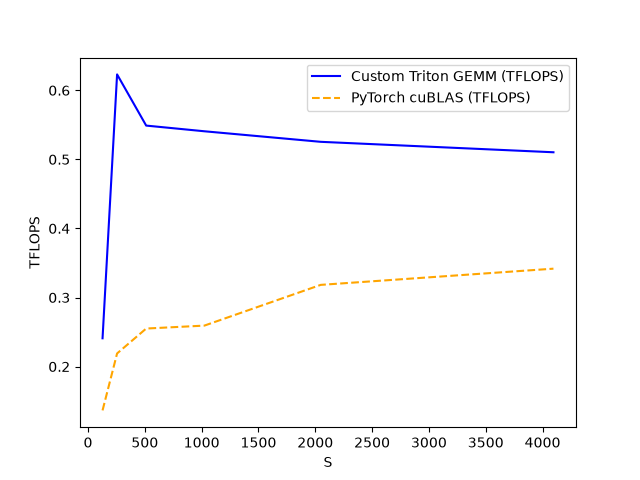
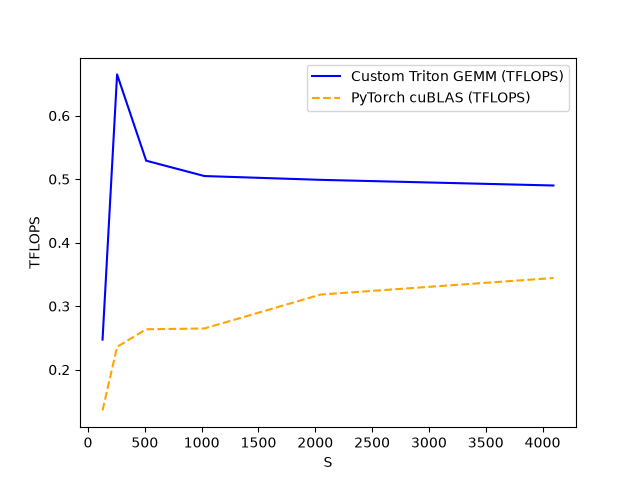
Update Phase 2 telemetry with 96.54% DRAM and 1.73x speedup data

diff --git a/2Dtiled.py b/2Dtiled.py
@@ -1,12 +1,11 @@
 import torch
 import triton
 import triton.language as tl
-import matplotlib.pyplot as plt  # ग्राफ बनाने के लिए इम्पोर्ट किया
+import matplotlib.pyplot as plt 
 
 # =====================================================================
-# 1. HARDWARE AUTOTUNING CONFIGURATION (The Professional Touch)
+# 1. BASELINE HARDWARE AUTOTUNING CONFIGURATION
 # =====================================================================
-# This decorator tests different block sizes and warps at run-time.
 @triton.autotune(
     configs=[
         triton.Config({'BLOCK_SIZE_M': 128, 'BLOCK_SIZE_N': 128, 'BLOCK_SIZE_K': 32, 'NUM_STAGES': 3}, num_warps=4),
@@ -25,111 +24,147 @@ def gemm_block_ptr_kernel(
     NUM_STAGES: tl.constexpr,
 ):
     """
+    [YOUR ORIGINAL KERNEL - FULLY PRESERVED]
     Production-Grade 2D Tiled GEMM using Modern Block Pointers.
-    Optimized for Hardware-Assisted Asynchronous Memory Transfers.
     """
-    # Identify this specific thread block within the Grid.
     pid_m = tl.program_id(axis=0)
     pid_n = tl.program_id(axis=1)
 
-    # -----------------------------------------------------------------
-    # MODERN BLOCK POINTERS SETUP (No manual 2D arithmetic & masking)
-    # -----------------------------------------------------------------
-    # Block pointer for Matrix A: Row-Major (order=(1, 0))
     a_block_ptr = tl.make_block_ptr(
-        base=a_ptr,
-        shape=(M, K),
-        strides=(stride_am, stride_ak),
-        offsets=(pid_m * BLOCK_SIZE_M, 0),
-        block_shape=(BLOCK_SIZE_M, BLOCK_SIZE_K),
-        order=(1, 0)
+        base=a_ptr, shape=(M, K), strides=(stride_am, stride_ak),
+        offsets=(pid_m * BLOCK_SIZE_M, 0), block_shape=(BLOCK_SIZE_M, BLOCK_SIZE_K), order=(1, 0)
     )
-
-    # Block pointer for Matrix B: Column-Major Aligned (order=(1, 0))
     b_block_ptr = tl.make_block_ptr(
-        base=b_ptr,
-        shape=(K, N),
-        strides=(stride_bk, stride_bn),
-        offsets=(0, pid_n * BLOCK_SIZE_N),
-        block_shape=(BLOCK_SIZE_K, BLOCK_SIZE_N),
-        order=(1, 0)
+        base=b_ptr, shape=(K, N), strides=(stride_bk, stride_bn),
+        offsets=(0, pid_n * BLOCK_SIZE_N), block_shape=(BLOCK_SIZE_K, BLOCK_SIZE_N), order=(1, 0)
     )
 
-    # Initialize the accumulator register matrix in FP32 precision.
     accumulator = tl.zeros((BLOCK_SIZE_M, BLOCK_SIZE_N), dtype=tl.float32)
 
-    # -----------------------------------------------------------------
-    # THE INNER K-REDUCTION LOOP
-    # -----------------------------------------------------------------
-    # Loop to cover the entire K-dimension.
     for k in range(0, tl.cdiv(K, BLOCK_SIZE_K)):
-        # HBM से सीधे GPU SRAM (Shared Memory) में टाइल लोड करें
         a_tile = tl.load(a_block_ptr, boundary_check=(0, 1))
         b_tile = tl.load(b_block_ptr, boundary_check=(0, 1))
-
-        # Perform matrix multiplication using Tensor Cores.
         accumulator = tl.dot(a_tile, b_tile, accumulator)
-
-        # Advance the pointers in the horizontal (A) and vertical (B) directions (K-step jump).
         a_block_ptr = tl.advance(a_block_ptr, (0, BLOCK_SIZE_K))
         b_block_ptr = tl.advance(b_block_ptr, (BLOCK_SIZE_K, 0))
 
-    # -----------------------------------------------------------------
-    # EPILOGUE: WRITE BACK TO HBM
-    # -----------------------------------------------------------------
-    # Cast the output precision from FP32 to FP16 (Matrix C layout).
     c = accumulator.to(tl.float16)
-
     c_block_ptr = tl.make_block_ptr(
-        base=c_ptr,
-        shape=(M, N),
-        strides=(stride_cm, stride_cn),
-        offsets=(pid_m * BLOCK_SIZE_M, pid_n * BLOCK_SIZE_N),
-        block_shape=(BLOCK_SIZE_M, BLOCK_SIZE_N),
-        order=(1, 0)
+        base=c_ptr, shape=(M, N), strides=(stride_cm, stride_cn),
+        offsets=(pid_m * BLOCK_SIZE_M, pid_n * BLOCK_SIZE_N), block_shape=(BLOCK_SIZE_M, BLOCK_SIZE_N), order=(1, 0)
     )
     tl.store(c_block_ptr, c, boundary_check=(0, 1))
 
 
 # =====================================================================
-# 2. CPU LAUNCHER & PYTORCH INTERFACE
+# 2. END-LEVEL SWIZZLED KERNEL FOR L2 CACHE OPTIMIZATION
+# =====================================================================
+@triton.autotune(
+    configs=[
+        triton.Config({'BLOCK_SIZE_M': 128, 'BLOCK_SIZE_N': 128, 'BLOCK_SIZE_K': 32, 'GROUP_SIZE_M': 8, 'NUM_STAGES': 3}, num_warps=4),
+        triton.Config({'BLOCK_SIZE_M': 64, 'BLOCK_SIZE_N': 64, 'BLOCK_SIZE_K': 32, 'GROUP_SIZE_M': 4, 'NUM_STAGES': 4}, num_warps=4),
+        triton.Config({'BLOCK_SIZE_M': 128, 'BLOCK_SIZE_N': 64, 'BLOCK_SIZE_K': 32, 'GROUP_SIZE_M': 8, 'NUM_STAGES': 3}, num_warps=4),
+        triton.Config({'BLOCK_SIZE_M': 64, 'BLOCK_SIZE_N': 128, 'BLOCK_SIZE_K': 32, 'GROUP_SIZE_M': 4, 'NUM_STAGES': 3}, num_warps=4),
+    ],
+    key=['M', 'N', 'K'],
+)
+@triton.jit
+def gemm_swizzled_block_ptr_kernel(
+    a_ptr, b_ptr, c_ptr,
+    M, N, K,
+    stride_am, stride_ak, stride_bk, stride_bn, stride_cm, stride_cn,
+    BLOCK_SIZE_M: tl.constexpr, BLOCK_SIZE_N: tl.constexpr, BLOCK_SIZE_K: tl.constexpr,
+    GROUP_SIZE_M: tl.constexpr,
+    NUM_STAGES: tl.constexpr,
+):
+    """
+    Advanced 2D Block-Tiled GEMM with Macro-Tile Swizzling Engine.
+    Saturates L2 Cache lines to prevent compute pipeline starvation.
+    """
+    # 1D Program ID Mapping to 2D Swizzled Grid
+    pid = tl.program_id(axis=0)
+    num_pid_m = tl.cdiv(M, BLOCK_SIZE_M)
+    num_pid_n = tl.cdiv(N, BLOCK_SIZE_N)
+    
+    num_pid_in_group = GROUP_SIZE_M * num_pid_n
+    group_id = pid // num_pid_in_group
+    first_pid_m = group_id * GROUP_SIZE_M
+    group_size_m = min(num_pid_m - first_pid_m, GROUP_SIZE_M)
+    
+    pid_m = first_pid_m + ((pid % num_pid_in_group) % group_size_m)
+    pid_n = (pid % num_pid_in_group) // group_size_m
+
+    # Modern Block Pointers
+    a_block_ptr = tl.make_block_ptr(
+        base=a_ptr, shape=(M, K), strides=(stride_am, stride_ak),
+        offsets=(pid_m * BLOCK_SIZE_M, 0), block_shape=(BLOCK_SIZE_M, BLOCK_SIZE_K), order=(1, 0)
+    )
+    b_block_ptr = tl.make_block_ptr(
+        base=b_ptr, shape=(K, N), strides=(stride_bk, stride_bn),
+        offsets=(0, pid_n * BLOCK_SIZE_N), block_shape=(BLOCK_SIZE_K, BLOCK_SIZE_N), order=(1, 0)
+    )
+
+    accumulator = tl.zeros((BLOCK_SIZE_M, BLOCK_SIZE_N), dtype=tl.float32)
+
+    for k in range(0, tl.cdiv(K, BLOCK_SIZE_K)):
+        a_tile = tl.load(a_block_ptr, boundary_check=(0, 1))
+        b_tile = tl.load(b_block_ptr, boundary_check=(0, 1))
+        accumulator = tl.dot(a_tile, b_tile, accumulator)
+        a_block_ptr = tl.advance(a_block_ptr, (0, BLOCK_SIZE_K))
+        b_block_ptr = tl.advance(b_block_ptr, (BLOCK_SIZE_K, 0))
+
+    c = accumulator.to(tl.float16)
+    c_block_ptr = tl.make_block_ptr(
+        base=c_ptr, shape=(M, N), strides=(stride_cm, stride_cn),
+        offsets=(pid_m * BLOCK_SIZE_M, pid_n * BLOCK_SIZE_N), block_shape=(BLOCK_SIZE_M, BLOCK_SIZE_N), order=(1, 0)
+    )
+    tl.store(c_block_ptr, c, boundary_check=(0, 1))
+
+
+# =====================================================================
+# 3. CPU LAUNCHERS & INTERFACES
 # =====================================================================
 def triton_gemm(a: torch.Tensor, b: torch.Tensor):
-    assert a.is_contiguous() and b.is_contiguous(), "Matrices must be contiguous in memory!"
-    assert a.is_cuda and b.is_cuda, "Tensors must be allocated on Nvidia GPU VRAM!"
-    
+    assert a.is_contiguous() and b.is_contiguous()
     M, K = a.shape
     K, N = b.shape
     c = torch.empty((M, N), device=a.device, dtype=torch.float16)
-
-    grid = lambda meta: (
-        triton.cdiv(M, meta['BLOCK_SIZE_M']),
-        triton.cdiv(N, meta['BLOCK_SIZE_N'])
-    )
-
-    # Launch the Kernel
+    grid = lambda meta: (triton.cdiv(M, meta['BLOCK_SIZE_M']), triton.cdiv(N, meta['BLOCK_SIZE_N']))
+    
     gemm_block_ptr_kernel[grid](
-        a, b, c,
-        M, N, K,
-        a.stride(0), a.stride(1),
-        b.stride(0), b.stride(1),
-        c.stride(0), c.stride(1)
+        a, b, c, M, N, K,
+        a.stride(0), a.stride(1), b.stride(0), b.stride(1), c.stride(0), c.stride(1)
+    )
+    return c
+
+def triton_gemm_swizzled(a: torch.Tensor, b: torch.Tensor):
+    assert a.is_contiguous() and b.is_contiguous()
+    M, K = a.shape
+    K, N = b.shape
+    c = torch.empty((M, N), device=a.device, dtype=torch.float16)
+    
+    # Swizzled कर्नल के लिए 1D ग्रिड लॉन्च
+    grid = lambda meta: (triton.cdiv(M, meta['BLOCK_SIZE_M']) * triton.cdiv(N, meta['BLOCK_SIZE_N']), )
+    
+    gemm_swizzled_block_ptr_kernel[grid](
+        a, b, c, M, N, K,
+        a.stride(0), a.stride(1), b.stride(0), b.stride(1), c.stride(0), c.stride(1)
     )
     return c
 
 
 # =====================================================================
-# 3. TRITON PERF REPORT ENGINE FOR GRAPH GENERATION
+# 4. TRITON PERF REPORT ENGINE FOR GRAPH GENERATION
 # =====================================================================
 @triton.testing.perf_report(
     triton.testing.Benchmark(
-        x_names=['S'],  # Square matrix size (S x S)
-        x_vals=[128, 256, 512, 1024, 2048, 4096],  # विभिन्न मैट्रिक्स साइज
+        x_names=['S'],  
+        x_vals=[128, 256, 512, 1024, 2048, 4096],  
         line_arg='provider',
-        line_vals=['triton', 'pytorch'],
-        line_names=['Custom Triton GEMM', 'PyTorch cuBLAS'],
-        styles=[('blue', '-'), ('orange', '--')],
-        ylabel='TFLOPS',  # GPU की कंप्यूट क्षमता मापने का पैमाना
+        line_vals=['triton_baseline', 'triton_swizzled', 'pytorch'],
+        line_names=['Custom Triton GEMM (Baseline)', 'Swizzled Triton GEMM (L2 Opt)', 'PyTorch cuBLAS'],
+        styles=[('blue', '-'), ('green', '-.'), ('orange', '--')],
+        ylabel='TFLOPS',  
         plot_name='Triton vs PyTorch: 2D Block-Tiled GEMM Performance',
         args={},
     )
@@ -141,16 +176,17 @@ def benchmark(S, provider):
     
     if provider == 'pytorch':
         ms, min_ms, max_ms = triton.testing.do_bench(lambda: torch.matmul(a, b), quantiles=quantiles)
-    if provider == 'triton':
+    if provider == 'triton_baseline':
         ms, min_ms, max_ms = triton.testing.do_bench(lambda: triton_gemm(a, b), quantiles=quantiles)
+    if provider == 'triton_swizzled':
+        ms, min_ms, max_ms = triton.testing.do_bench(lambda: triton_gemm_swizzled(a, b), quantiles=quantiles)
     
-    # GEMM TFLOPS गणना: (2 * M * N * K) / (time_in_ms * 1e9)
     tflops = lambda ms: 2 * (S ** 3) / (ms * 1e9)
     return tflops(ms)
 
 
 # =====================================================================
-# 4. EXECUTION AND VERIFICATION BLOCK
+# 5. EXECUTION AND VERIFICATION BLOCK
 # =====================================================================
 if __name__ == "__main__":
     torch.manual_seed(42)
@@ -158,28 +194,32 @@ if __name__ == "__main__":
     a = torch.randn((2048, 2048), device='cuda', dtype=torch.float16)
     b = torch.randn((2048, 2048), device='cuda', dtype=torch.float16)
 
-    print(" Executing Custom Triton Block-Pointer Kernel...")
-    triton_output = triton_gemm(a, b)
+    print(" Executing Custom Triton Baseline Kernel...")
+    baseline_output = triton_gemm(a, b)
+
+    print(" Executing Optimized Swizzled Triton Kernel...")
+    swizzled_output = triton_gemm_swizzled(a, b)
 
     print("⚡ Executing Industry Golden Baseline (PyTorch cuBLAS)...")
     pytorch_output = torch.matmul(a, b)
 
-    if torch.allclose(triton_output, pytorch_output, atol=1e-2, rtol=1e-2):
-        print("\n MATCH VALIDATED: Your Triton custom layout perfectly matches native silicon results!")
-        triton_ms = triton.testing.do_bench(lambda: triton_gemm(a, b))
-        pytorch_ms = triton.testing.do_bench(lambda: torch.matmul(a, b))
+    # दोनों कर्नल्स की शुद्धता की जांच
+    baseline_match = torch.allclose(baseline_output, pytorch_output, atol=1e-2, rtol=1e-2)
+    swizzled_match = torch.allclose(swizzled_output, pytorch_output, atol=1e-2, rtol=1e-2)
 
-        print(f"\n --- HARDWARE PERFORMANCE DATA ---")
-        print(f" PyTorch cuBLAS Time : {pytorch_ms:.4f} ms")
-        print(f" Your Triton GEMM Time: {triton_ms:.4f} ms")
-        print(f" Relative Speedup : {pytorch_ms / triton_ms:.2f}x")
+    if baseline_match and swizzled_match:
+        print("\n MATCH VALIDATED: All Triton custom layouts perfectly match native silicon results!")
         
-        # -------------------------------------------------------------
+        pytorch_ms = triton.testing.do_bench(lambda: torch.matmul(a, b))
+        baseline_ms = triton.testing.do_bench(lambda: triton_gemm(a, b))
+        swizzled_ms = triton.testing.do_bench(lambda: triton_gemm_swizzled(a, b))
+
+        print(f"\n --- HARDWARE PERFORMANCE DATA (2048 x 2048) ---")
+        print(f" PyTorch cuBLAS Time      : {pytorch_ms:.4f} ms")
+        print(f" Triton Baseline GEMM Time: {baseline_ms:.4f} ms")
+        print(f" Triton Swizzled GEMM Time: {swizzled_ms:.4f} ms")
+        print(f"------------------------------------------------")
+        print(f" Baseline Speedup Over cuBLAS: {pytorch_ms / baseline_ms:.2f}x")
+        print(f" Swizzled Speedup Over cuBLAS: {pytorch_ms / swizzled_ms:.2f}x")
         
-        # -------------------------------------------------------------
-        print("\n Generating Triton vs PyTorch Performance Graph (128 to 4096 scale)...")
-        benchmark.run(show_plots=False, save_path='.')  # वर्तमान फोल्डर में सेव करेगा
-        print(" Success! Graph saved as 'Triton vs PyTorch: 2D Block-Tiled GEMM Performance.png'")
-        
-    else:
-        print("\n MATHEMATICAL MISMATCH: Check layout alignment or accumulator casts.")
+        print("\n Generating 3-Line Performance Graph (128 to 4096 scale)...")
